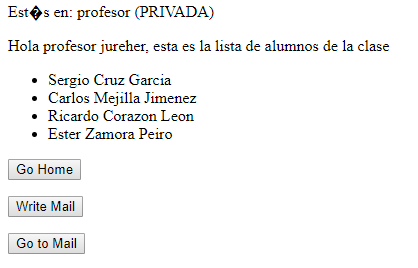
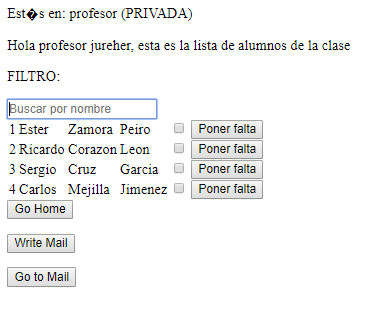
Búsquedas en la lisa del profesor
Búsquedas en la lisa de alumnos de una clase determinada para el  profesor,
Captura nueva.

Changed region(s): [[0.0, 0.1194, 0.9478, 0.9552], [0.0, 0.0, 0.517, 0.0896]]

diff --git a/schoolist/src/main/resources/templates/profesor_template.html b/schoolist/src/main/resources/templates/profesor_template.html
@@ -3,11 +3,31 @@
 <body>
     <p>Est�s en: {{name}} (PRIVADA)</p>
 	<p>Hola profesor {{nombreProfesor}}, esta es la lista de alumnos de la clase</p>
-	<ul>
+
+	</table>
+	
+	<p>FILTRO:</p>
+	<input type="text" id="myInput" onkeyup="myFunction()" placeholder="Buscar por nombre">
+	
+	<table id="myTable">
+
 		{{#alumnos}}
-			<li>{{.}}</li>
+		<tr>
+		<td>{{-index}}</td>
+		<td>{{nombre}}</td>
+		<td>{{apellido1}}</td>
+		<td>{{apellido2}}</td>
+		<td>				
+				<input type="checkbox" value="">
+		</td>
+		<td>
+				<input type='hidden' name="id" value={{id}}>
+				<input type='submit' value="Poner falta">
+		</td>
+		</tr>
 		{{/alumnos}}
-	</ul>
+	</table>
+
     <form action='home'>
         <input type='submit' value="Go Home">
     </form>
@@ -18,5 +38,24 @@
         <input type='submit' value="Go to Mail">
     </form>
 </body>
-
+	<script>
+	function myFunction() {
+  		var input, filter, table, tr, td, i, txtValue;
+  		input = document.getElementById("myInput");
+  		filter = input.value.toUpperCase();
+  		table = document.getElementById("myTable");
+  		tr = table.getElementsByTagName("tr");
+  		for (i = 0; i < tr.length; i++) {
+    		td = tr[i].getElementsByTagName("td")[1];
+    		if (td) {
+      			txtValue = td.textContent || td.innerText;
+      			if (txtValue.toUpperCase().indexOf(filter) > -1) {
+        			tr[i].style.display = "";
+      		} else {
+        		tr[i].style.display = "none";
+      		}
+    	}       
+  		}
+	}
+</script>
 </html>

diff --git a/schoolist/src/main/java/es/urjc/etsii/schoolist/MustacheController.java b/schoolist/src/main/java/es/urjc/etsii/schoolist/MustacheController.java
@@ -147,14 +147,8 @@ public class MustacheController
 	        }
 	    }
 	    
-	    if(alumnos!=null) {
-	
-	    for (Iterator<Alumno> u = alumnos.iterator(); u.hasNext(); ) {
-	        Alumno a = u.next();
-	        nombres.add(a.getNombreCompleto());
-	    }
-	    }
-		model.addAttribute("alumnos", nombres);
+
+		model.addAttribute("alumnos", alumnos);
 		return "profesor_template";
 	 }
 	
